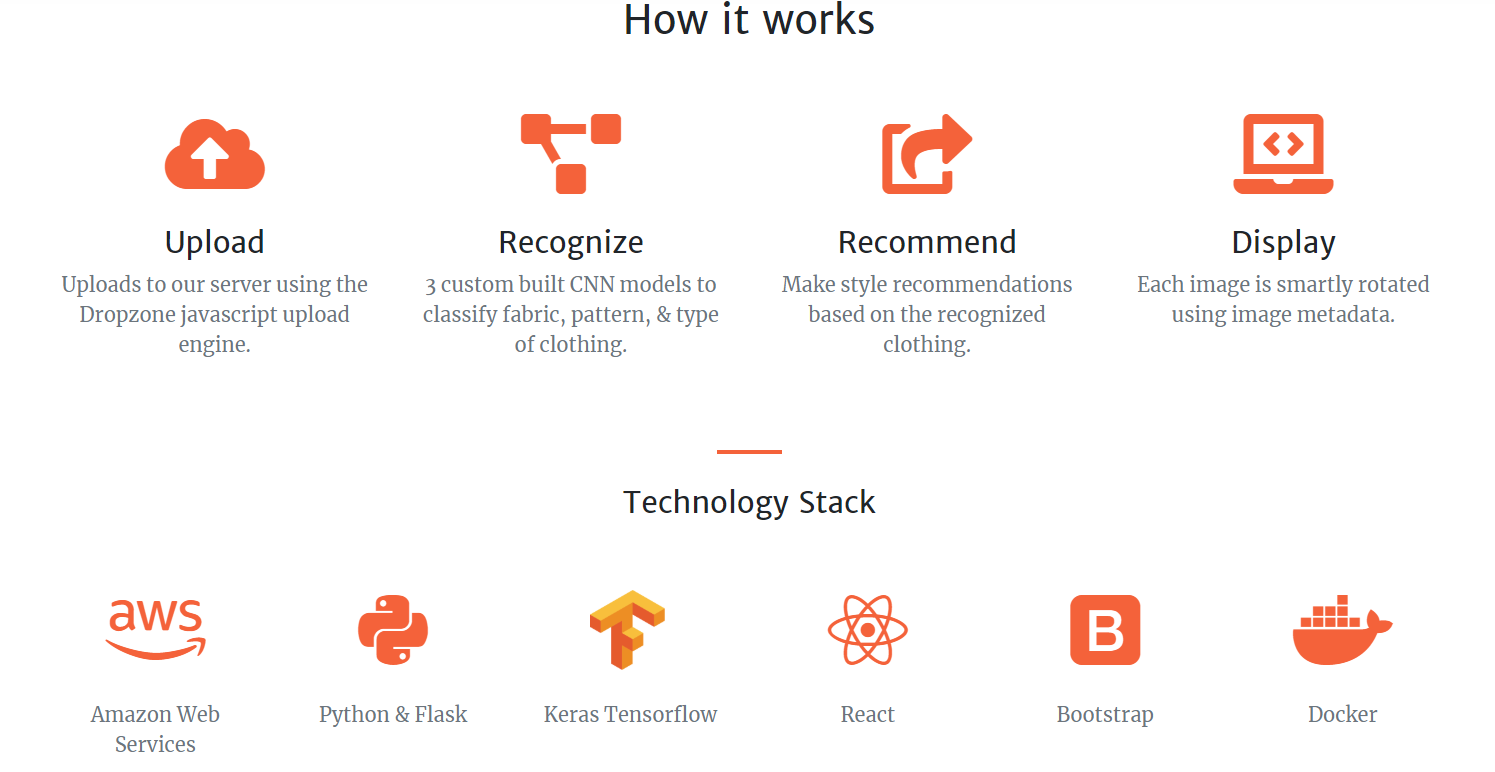
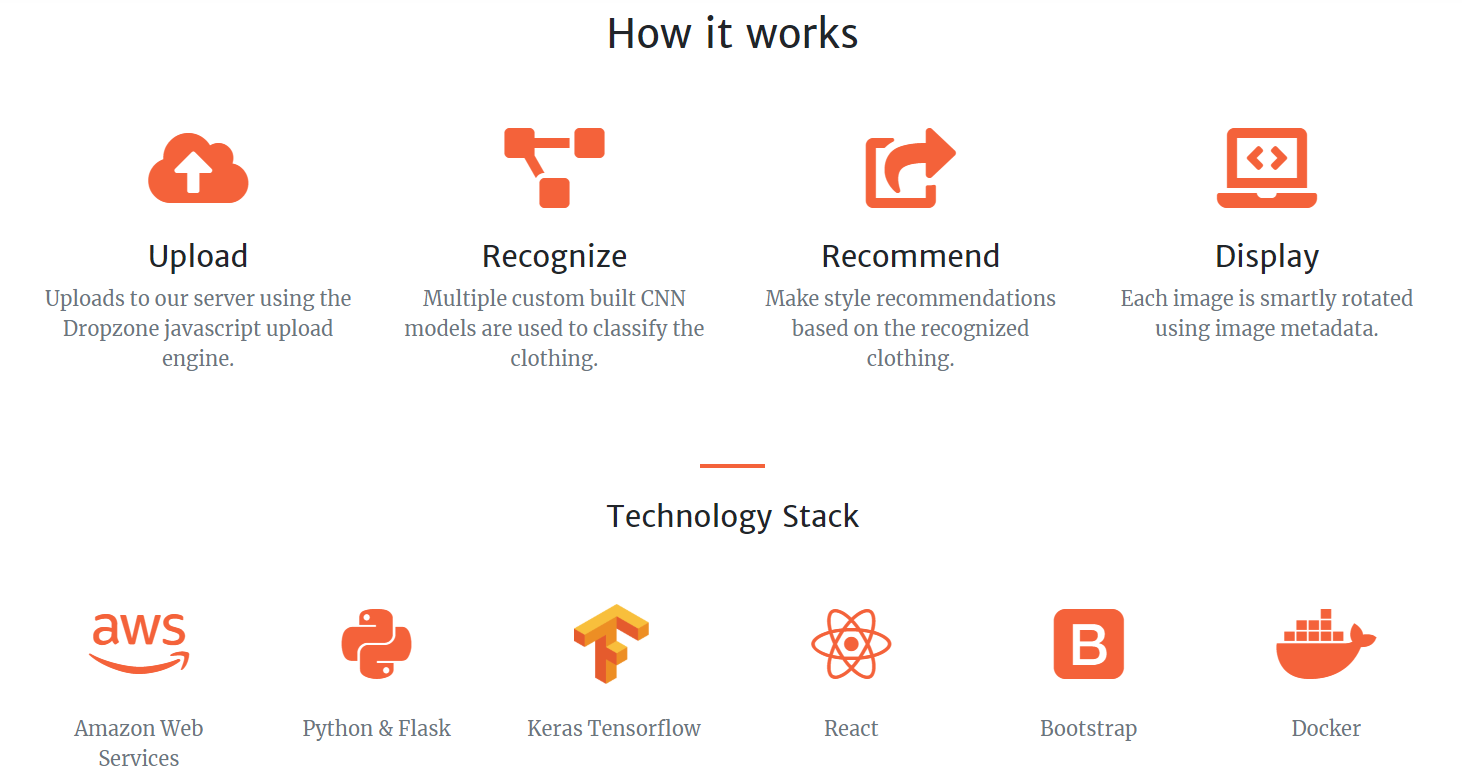
disabling fabric detection model

diff --git a/templates/fashion.html b/templates/fashion.html
@@ -64,31 +64,32 @@
               <div class="uploaded">
 
                 {% for path, prediction in paths_predictions.items() %}
-                  <img class="mx-auto rounded-circle img-fluid" src="{{path}}" alt="">
-                  <br>
-                  <br>
-                  <h4 class="h4 mb-2">{{ prediction[0] }} {{ prediction[1] }} {{ prediction[2] }}</h4>
-                  <hr class="divider light my-4">
-                    <table class="table table-striped table-bordered table-hover text-muted">
-                      <tr>
-                        <th>Detected Fabric</th>
-                        <th>Detected Pattern</th>
-                        <th>Detected Clothing Type</th>
-                      </tr>
-                      
-                      <tr>
-                        <td>{{ prediction[0] }}</td>
-                        <td>{{ prediction[1] }}</td>
-                        <td>{{ prediction[2] }}</td>
-                      </tr>
-                      
-                    </table>
+                <img class="mx-auto rounded-circle img-fluid" src="{{path}}" alt="">
+                <br>
+                <br>
+                <h4 class="h4 mb-2">{{ prediction[1] }} {{ prediction[2] }}</h4>
+                <hr class="divider light my-4">
+<!--                   
+                  <table class="table table-striped table-bordered table-hover text-muted">
+                    <tr>
+                      <th>Detected Fabric</th>
+                      <th>Detected Pattern</th>
+                      <th>Detected Clothing Type</th>
+                    </tr>
+                    
+                    <tr>
+                      <td>{{ prediction[0] }}</td>
+                      <td>{{ prediction[1] }}</td>
+                      <td>{{ prediction[2] }}</td>
+                    </tr>
+                    
+                  </table> -->
 
-                    {% if prediction[3] %}
-                      <h4>Style Recommendation: {{prediction[3]}}</h4>
-                    {% else %}
-                      <br>
-                    {% endif %}
+                  {% if prediction[3] %}
+                    <h4>Style Recommendation: {{prediction[3]}}</h4>
+                  {% else %}
+                    <br>
+                  {% endif %}
                     
                   <hr class="divider light my-4">
                   <br>

diff --git a/templates/index.html b/templates/index.html
@@ -91,7 +91,7 @@
         <div class="mt-5">
           <i class="fas fa-4x fa-project-diagram text-primary mb-4"></i>
           <h3 class="h4 mb-2">Recognize</h3>
-          <p class="text-muted mb-0">3 custom built CNN models to classify fabric, pattern, & type of clothing.</p>
+          <p class="text-muted mb-0">Multiple custom built CNN models are used to classify the clothing.</p>
         </div>
       </div>
       <div class="col-lg-3 col-md-6 text-center">

diff --git a/custom_fashion.py b/custom_fashion.py
@@ -91,26 +91,26 @@ def predict_images(img_paths):
     image_arrays = [image_preprocess(img_path) for img_path in img_paths]
 
     # load our customized fashion pre-trained models
-    fabric = load_model(os.path.abspath(str(Path('models') / 'vgg_weights_fabric.hdf5')))
+    # fabric = load_model(os.path.abspath(str(Path('models') / 'vgg_weights_fabric.hdf5'))) # not accurate enough
     pattern = load_model(os.path.abspath(str(Path('models') / 'vgg_weights_data_aug_frozen_pattern_EI')))
     type_clothing = load_model(os.path.abspath(str(Path('models') / 'Cloth_type.hdf5')))
 
     # Run the images through the CNN models to make predictions
-    fabric_predictions = [fabric.predict_classes(image_array) for image_array in image_arrays]
+    # fabric_predictions = [fabric.predict_classes(image_array) for image_array in image_arrays]
     pattern_predictions = [pattern.predict_classes(image_array) for image_array in image_arrays]
     type_predictions = [type_clothing.predict_classes(image_array) for image_array in image_arrays]
 
     # Link up predictions to the names of the predicted classes based on definitions from our trained model:
-    class_fabric = {
-    0: 'Chiffon',
-    1: 'Cotton',
-    2: 'Denim',
-    3: 'Lace',
-    4: 'Leather',
-    5: 'Linen',
-    6: 'Ribbed',
-    7: 'Spandex',
-    }
+    # class_fabric = {
+    # 0: 'Chiffon',
+    # 1: 'Cotton',
+    # 2: 'Denim',
+    # 3: 'Lace',
+    # 4: 'Leather',
+    # 5: 'Linen',
+    # 6: 'Ribbed',
+    # 7: 'Spandex',
+    # }
 
     class_pattern = {
     0: 'Colorblock',
@@ -139,7 +139,8 @@ def predict_images(img_paths):
     11: 'Tee'
     }
 
-    fabric_predictions = [class_fabric.get(prediction[0]) for prediction in fabric_predictions]
+    # fabric_predictions = [class_fabric.get(prediction[0]) for prediction in fabric_predictions]
+    fabric_predictions = [0 for prediction in pattern_predictions] # just fill it with empty 0s
     pattern_predictions = [class_pattern.get(prediction[0]) for prediction in pattern_predictions]
     type_predictions = [class_type.get(prediction[0]) for prediction in type_predictions]
 

diff --git a/README.MD b/README.MD
@@ -6,7 +6,7 @@ Sense Fashion is an automatic labeling system for fashion online retailers deplo
 
 ## ABOUT:
 
-This Python/Flask web application hosted on AWS using a docker container allows a user to upload images that will then be identified using customized neural network models pretrained exclusively on fashion data. Sense-fashion uses a combination of 3 different customized Tensorflow models to label the clothing item and was able to achieve a higher accuracy than UCLA's [FashionNet](https://www.groundai.com/project/fashionnet-personalized-outfit-recommendation-with-deep-neural-network/1) on certain attributes. If the image matches a specific style-set of clothing, recommendations are sent to the user along with an identified label.
+This Python/Flask web application hosted on AWS using a docker container allows a user to upload images that will then be identified using customized neural network models pretrained exclusively on fashion data. Sense-fashion uses a combination of different customized Tensorflow models to label the clothing item and was able to achieve a higher accuracy than UCLA's [FashionNet](https://www.groundai.com/project/fashionnet-personalized-outfit-recommendation-with-deep-neural-network/1) on certain attributes. If the image matches a specific style-set of clothing, recommendations are sent to the user.
 
 <img src="static/img/howitworks_sensefashion.png" alt="howitworks" style="width: 1500px;"/>
 
@@ -27,11 +27,11 @@ Increased data to 1000 images per class. Classes decreased to: 9 pattern, 8 fabr
 
 #### 4. Finalizing Model
 
-Employ data augmentation techniques such as rotation, brightness, zoom, and size to address overfitting.  Increased accuracy to a desirable > 60%.
+Employ data augmentation techniques such as rotation, brightness, zoom, and size to address overfitting.  Increased accuracy to a desirable > 60%. 
 
 #### 5. Comparing SenseFashion vs UCLA's FashionNet
 
-FashionNet trained exclusively on DeepFashion data and used VGG 16 algorithm. Fashion Sense had a higher accuracy due to extensive data preprocessing work.
+FashionNet trained exclusively on DeepFashion data and used the VGG 16 algorithm. Fashion Sense had a higher accuracy due to extensive data preprocessing work. Even though Fashion Sense has a higher performance on fabric detection, the accuracy is still not accurate enough to justify deployment of the model in our final production application.
 
 
 
